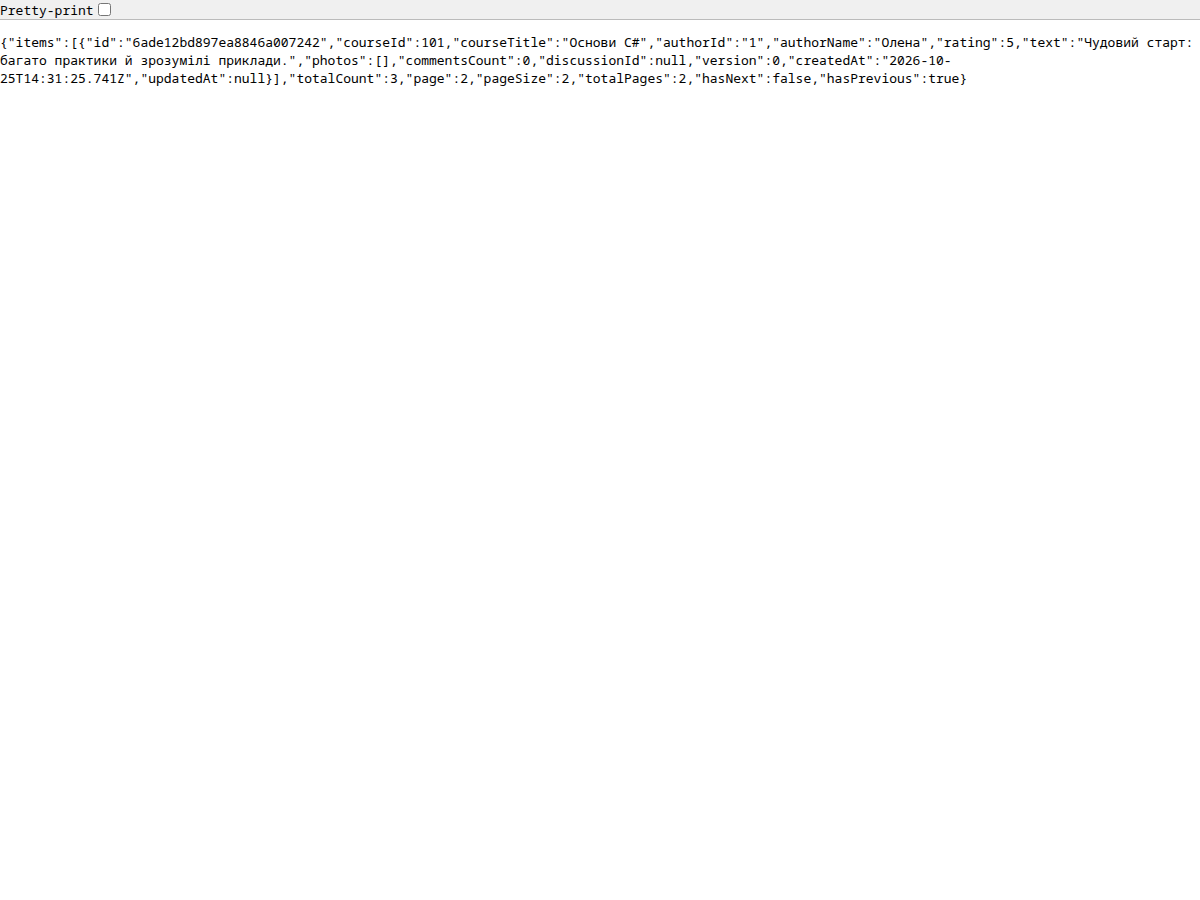
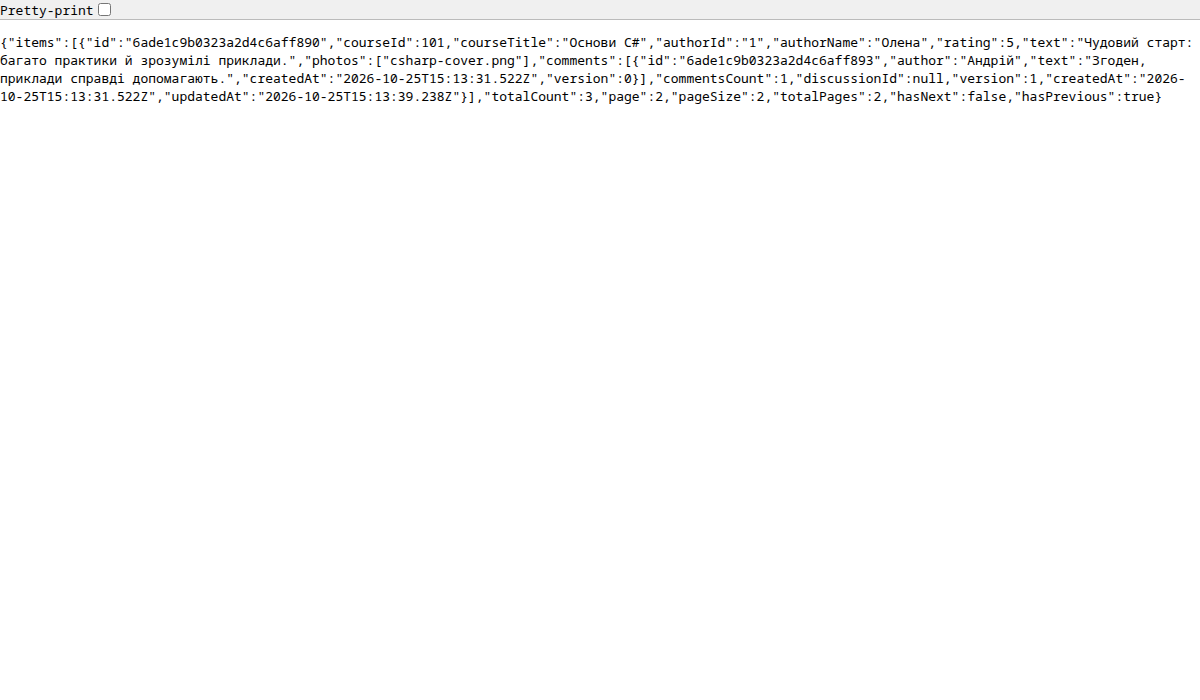
fix(lab-04): keep nested collections on update and expose comments in DTO

Changed region(s): [[0.0, 0.0, 0.9867, 0.15]]

diff --git a/Services/Reviews/Reviews.Infrastructure/Persistence/ReviewQueries.cs b/Services/Reviews/Reviews.Infrastructure/Persistence/ReviewQueries.cs
@@ -23,6 +23,7 @@ public sealed class ReviewQueries(MongoDbContext context) : IReviewQueries
             new BsonDocument("$size",
                 new BsonDocument("$ifNull", new BsonArray { "$comments", new BsonArray() }))
         },
+        { "comments", new BsonDocument("$ifNull", new BsonArray { "$comments", new BsonArray() }) },
         { "discussionId", 1 },
         { "version", new BsonDocument("$ifNull", new BsonArray { "$version", 0 }) },
         {
@@ -91,6 +92,7 @@ public sealed class ReviewQueries(MongoDbContext context) : IReviewQueries
         document.GetValue("rating", 0).ToInt32(),
         document.GetValue("text", "").AsString,
         document["photos"].AsBsonArray.Select(photo => photo.AsString).ToList(),
+        ToComments(document["comments"].AsBsonArray),
         document.GetValue("commentsCount", 0).ToInt32(),
         document.TryGetValue("discussionId", out var discussionId) && discussionId.IsObjectId
             ? discussionId.AsObjectId.ToString()
@@ -100,4 +102,20 @@ public sealed class ReviewQueries(MongoDbContext context) : IReviewQueries
         document.TryGetValue("updatedAt", out var updatedAt) && updatedAt.IsValidDateTime
             ? updatedAt.ToUniversalTime()
             : null);
+
+    private static IReadOnlyList<CommentDto> ToComments(BsonArray comments)
+        => comments.Select(comment =>
+        {
+            var document = comment.AsBsonDocument;
+            return new CommentDto(
+                document.TryGetValue("_id", out var id) && id.IsObjectId
+                    ? id.AsObjectId.ToString()
+                    : null,
+                document.GetValue("author", "").AsString,
+                document.GetValue("text", "").AsString,
+                document.TryGetValue("createdAt", out var createdAt) && createdAt.IsValidDateTime
+                    ? createdAt.ToUniversalTime()
+                    : DateTime.UnixEpoch,
+                document.GetValue("version", 0).ToInt32());
+        }).ToList();
 }

diff --git a/Services/Reviews/Reviews.Application/Reviews/Mapping/ReviewProfile.cs b/Services/Reviews/Reviews.Application/Reviews/Mapping/ReviewProfile.cs
@@ -8,12 +8,16 @@ public sealed class ReviewProfile : Profile
 {
     public ReviewProfile()
     {
+        CreateMap<Comment, CommentDto>()
+            .ForCtorParam(nameof(CommentDto.Id), o => o.MapFrom(s => s.Id.ToString()));
+
         CreateMap<Review, ReviewDto>()
             .ForCtorParam(nameof(ReviewDto.Id), o => o.MapFrom(s => s.Id.ToString()))
             .ForCtorParam(nameof(ReviewDto.AuthorId), o => o.MapFrom(s => s.Author.UserId))
             .ForCtorParam(nameof(ReviewDto.AuthorName), o => o.MapFrom(s => s.Author.DisplayName))
             .ForCtorParam(nameof(ReviewDto.Rating), o => o.MapFrom(s => s.Rating.Value))
             .ForCtorParam(nameof(ReviewDto.CommentsCount), o => o.MapFrom(s => s.Comments.Count))
+            .ForCtorParam(nameof(ReviewDto.Comments), o => o.MapFrom(s => s.Comments))
             .ForCtorParam(nameof(ReviewDto.Photos), o => o.MapFrom(s => s.Photos.ToList()))
             .ForCtorParam(nameof(ReviewDto.DiscussionId),
                 o => o.MapFrom(s => s.DiscussionId == null ? null : s.DiscussionId.ToString()));

diff --git a/Services/Reviews/Reviews.Domain/Entities/Review.cs b/Services/Reviews/Reviews.Domain/Entities/Review.cs
@@ -7,8 +7,8 @@ namespace Reviews.Domain.Entities;
 
 public sealed class Review : BaseEntity
 {
-    private readonly List<Comment> _comments = new();
-    private readonly List<string> _photos = new();
+    private List<Comment> _comments = new();
+    private List<string> _photos = new();
 
     public int CourseId { get; private set; }
     public string CourseTitle { get; private set; } = "";

diff --git a/Services/Reviews/Reviews.Application/Common/Models/ReviewDto.cs b/Services/Reviews/Reviews.Application/Common/Models/ReviewDto.cs
@@ -9,6 +9,7 @@ public sealed record ReviewDto(
     int Rating,
     string Text,
     IReadOnlyList<string> Photos,
+    IReadOnlyList<CommentDto> Comments,
     int CommentsCount,
     string? DiscussionId,
     int Version,

diff --git a/Services/Reviews/Reviews.Application/Common/Models/CommentDto.cs b/Services/Reviews/Reviews.Application/Common/Models/CommentDto.cs
@@ -1,0 +1,8 @@
+namespace Reviews.Application.Common.Models;
+
+public sealed record CommentDto(
+    string? Id,
+    string Author,
+    string Text,
+    DateTime CreatedAt,
+    int Version);

diff --git a/README.md b/README.md
@@ -185,7 +185,7 @@ curl -X DELETE '<catalog-api-url>/api/courses/1'
 
 `Reviews.Domain` посилається лише на `MongoDB.Bson` (тип `ObjectId`), драйвера доступу до БД у ньому немає.
 
-Одна операція API = одна команда або запит MediatR. Обробники не працюють з `IMongoCollection`: записи йдуть через `IReviewRepository`, читання - через `IReviewQueries` (проєкція одразу в `ReviewDto`). Ланцюжок behaviors: `LoggingBehavior` → `ValidationBehavior` → `PerformanceBehavior`; валідатор кидає `ValidationException` до виклику обробника. Правило `CreateReviewCommandValidator` робить асинхронний запит `ExistsAsync`, тому повторний відгук того самого автора на курс відхиляється з `400`; unique-індекс `{courseId, author.userId}` повертає `409` у разі гонки.
+Одна операція API = одна команда або запит MediatR. Обробники не працюють з `IMongoCollection`: записи йдуть через `IReviewRepository`, читання - через `IReviewQueries` (проєкція одразу в `ReviewDto` з масивами `photos` і `comments`). Ланцюжок behaviors: `LoggingBehavior` → `ValidationBehavior` → `PerformanceBehavior`; валідатор кидає `ValidationException` до виклику обробника. Правило `CreateReviewCommandValidator` робить асинхронний запит `ExistsAsync`, тому повторний відгук того самого автора на курс відхиляється з `400`; unique-індекс `{courseId, author.userId}` повертає `409` у разі гонки.
 
 BSON-мапінг заданий у `MongoMappings` без атрибутів у домені: camelCase, `IgnoreExtraElements`, приватні поля `_photos`/`_comments`, `Rating` через власний `RatingBsonSerializer` (у документі лишається `int`), `Author` через конструктор. Оновлення документа виконується `ReplaceOne` з фільтром за поточною версією, видалення - `DeleteOne` з тим самим фільтром; розбіжність версій дає `409`. GET повертає `ETag` з версією, PUT приймає `If-Match` і відхиляє застарілу версію.
 
